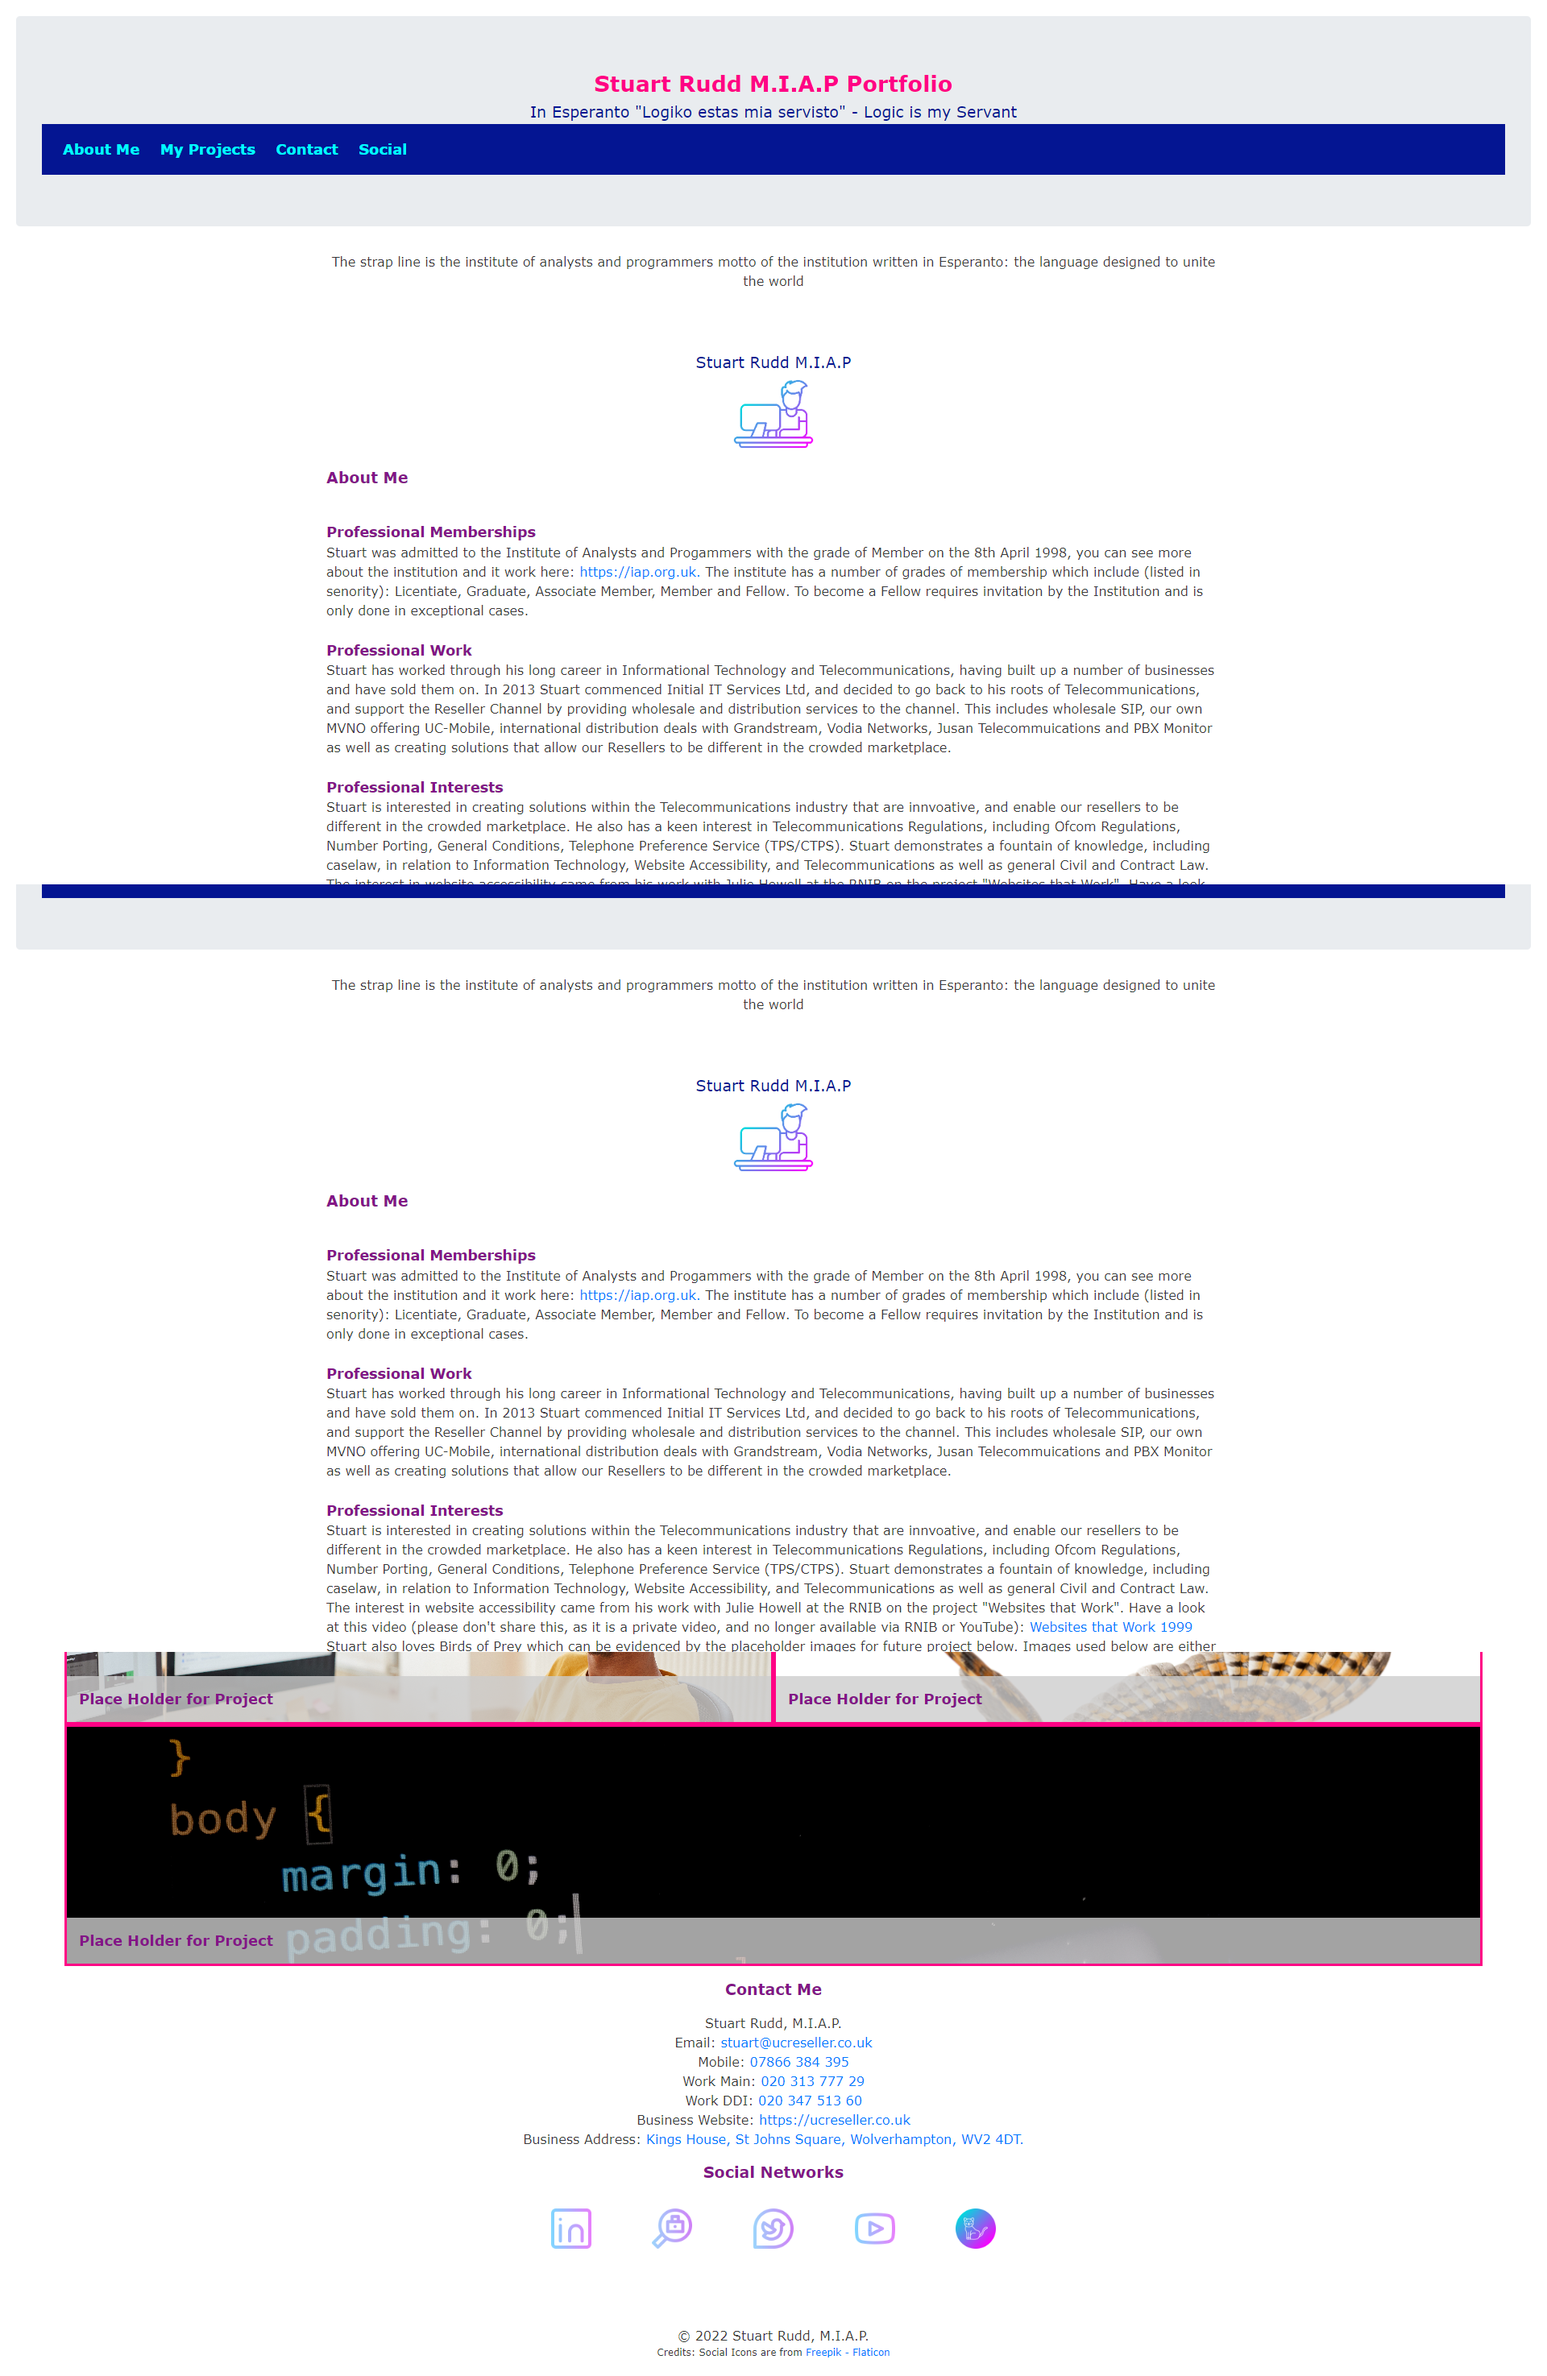
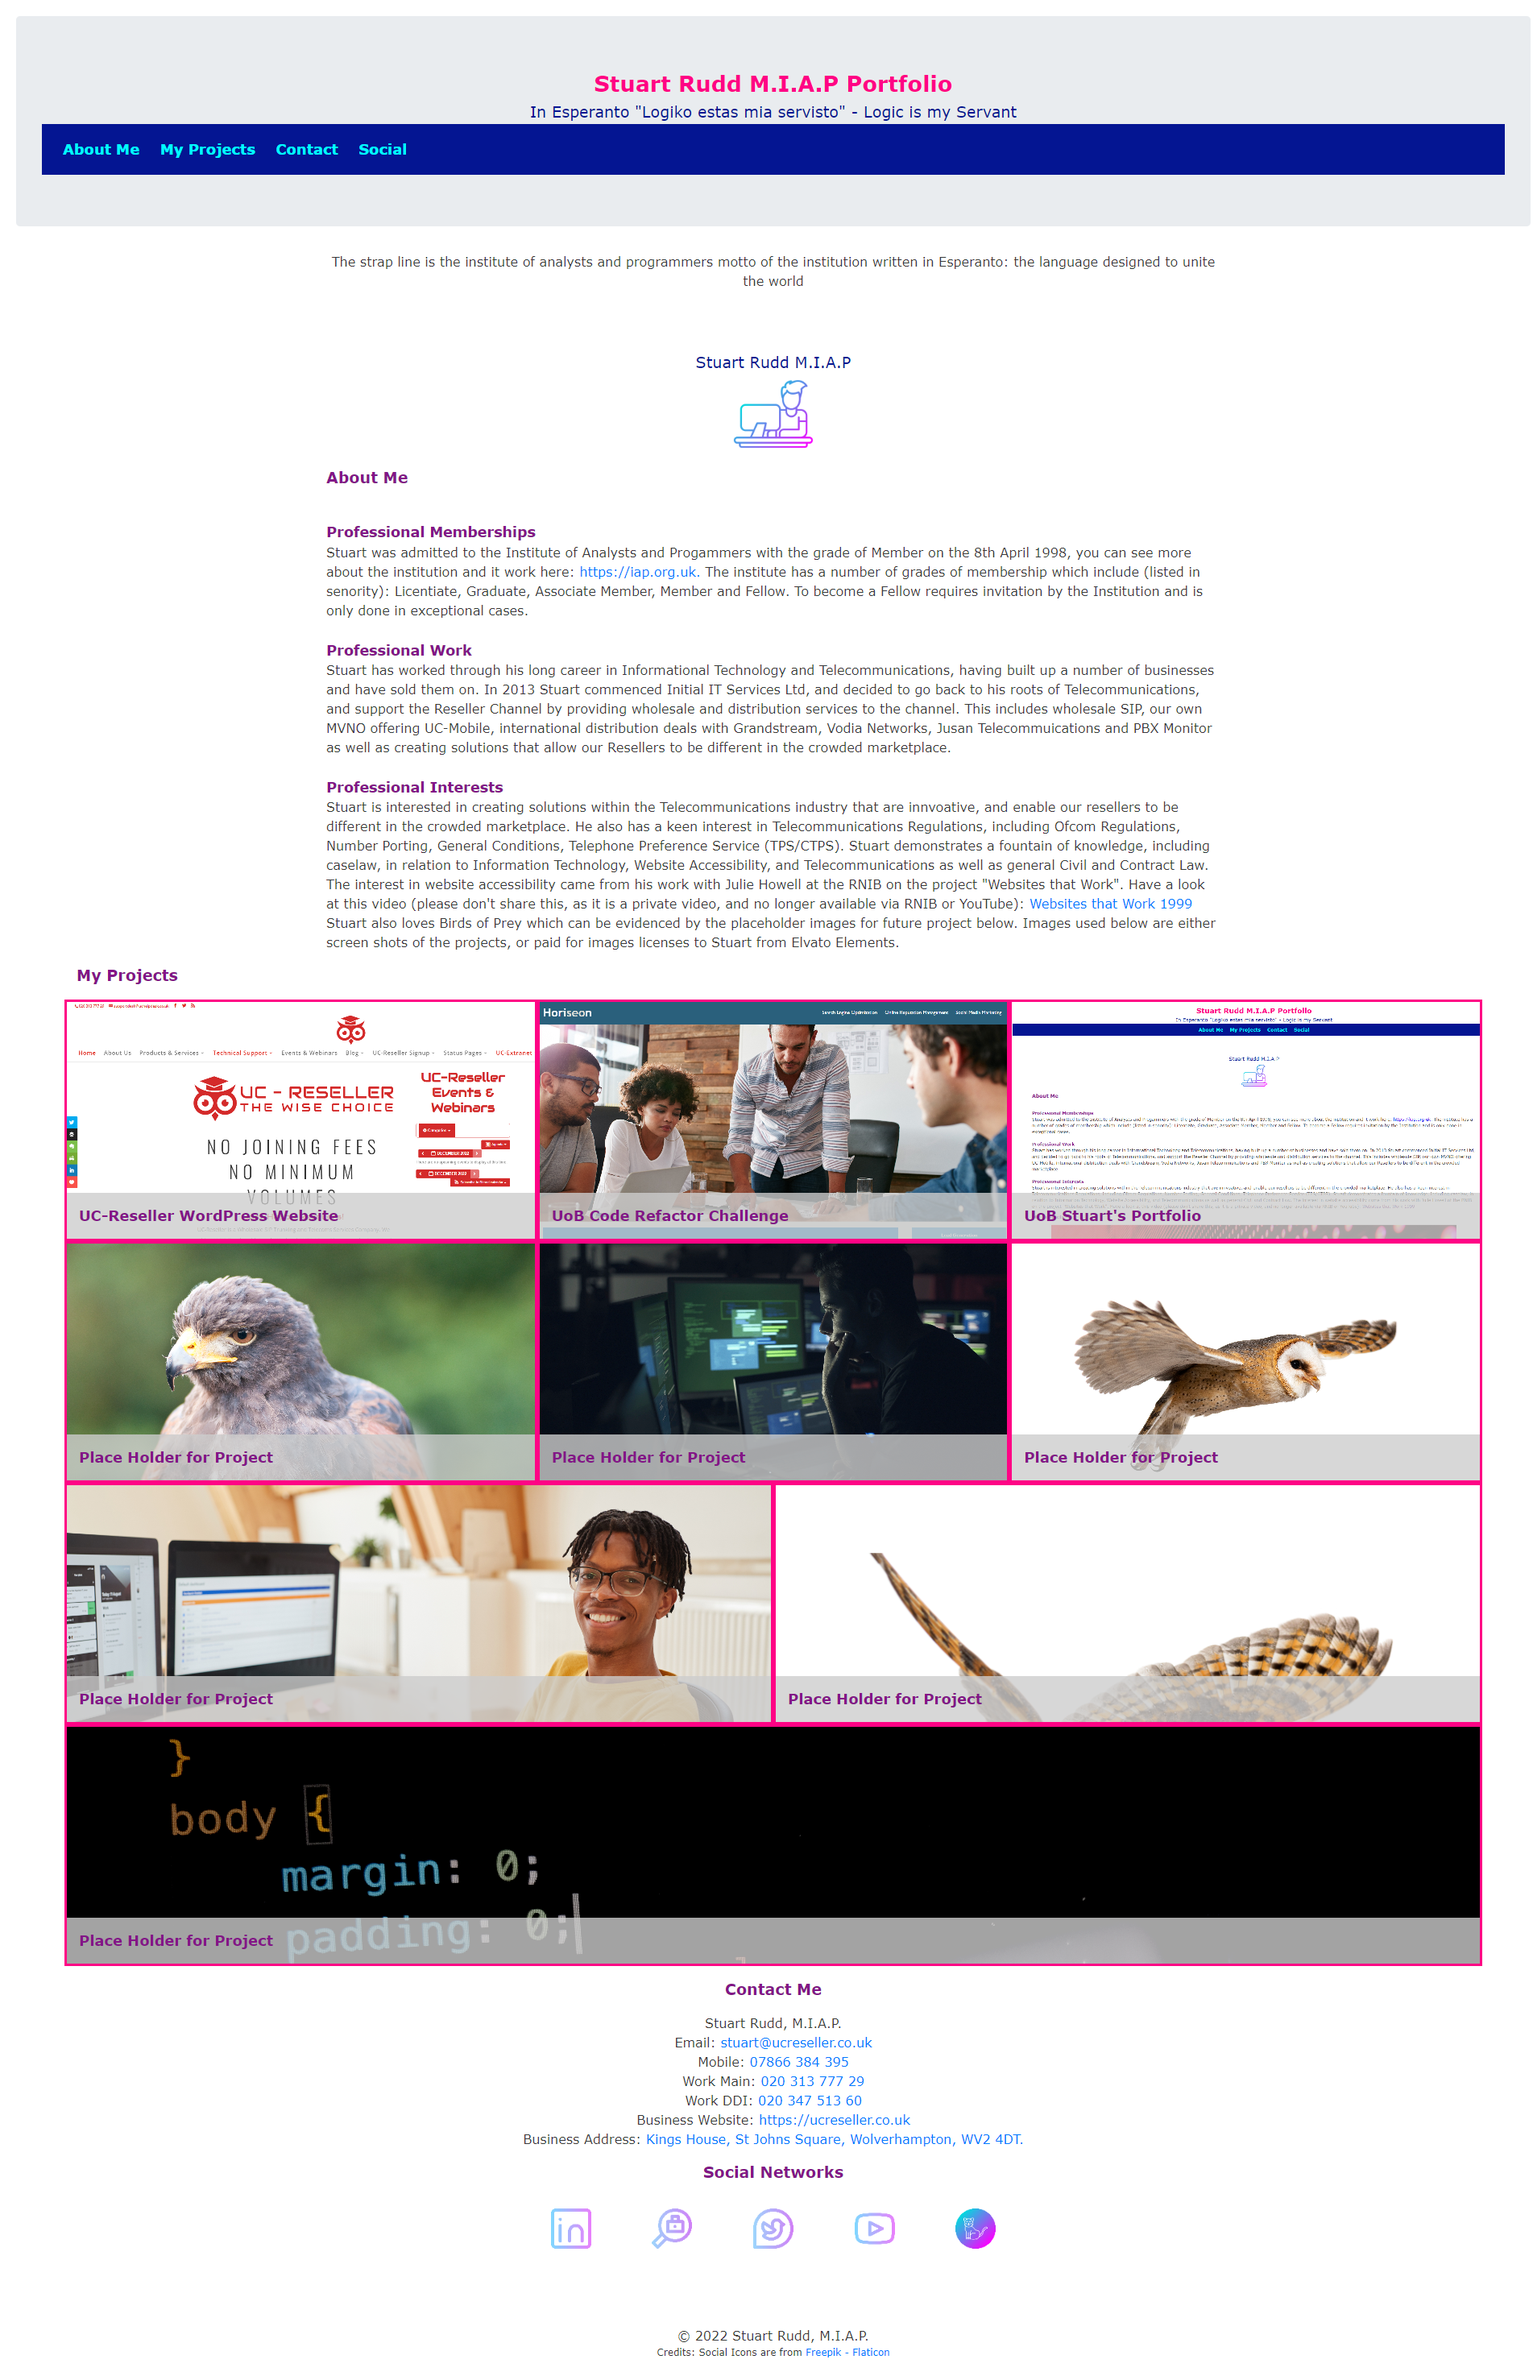
Added readme

diff --git a/README.md b/README.md
@@ -1,2 +1,9 @@
 # UoB-Bootstrap-Portfolio
-UOB Bootstrap Portfolio
+
+# Introduction
+
+This is an updated Portfolio using Bootstrap
+
+# Screenshot
+
+![New Portfolio with Bootstrap](./ASSETS/IMG/newportfolio.png "New Portfolio with Bootstrap")
